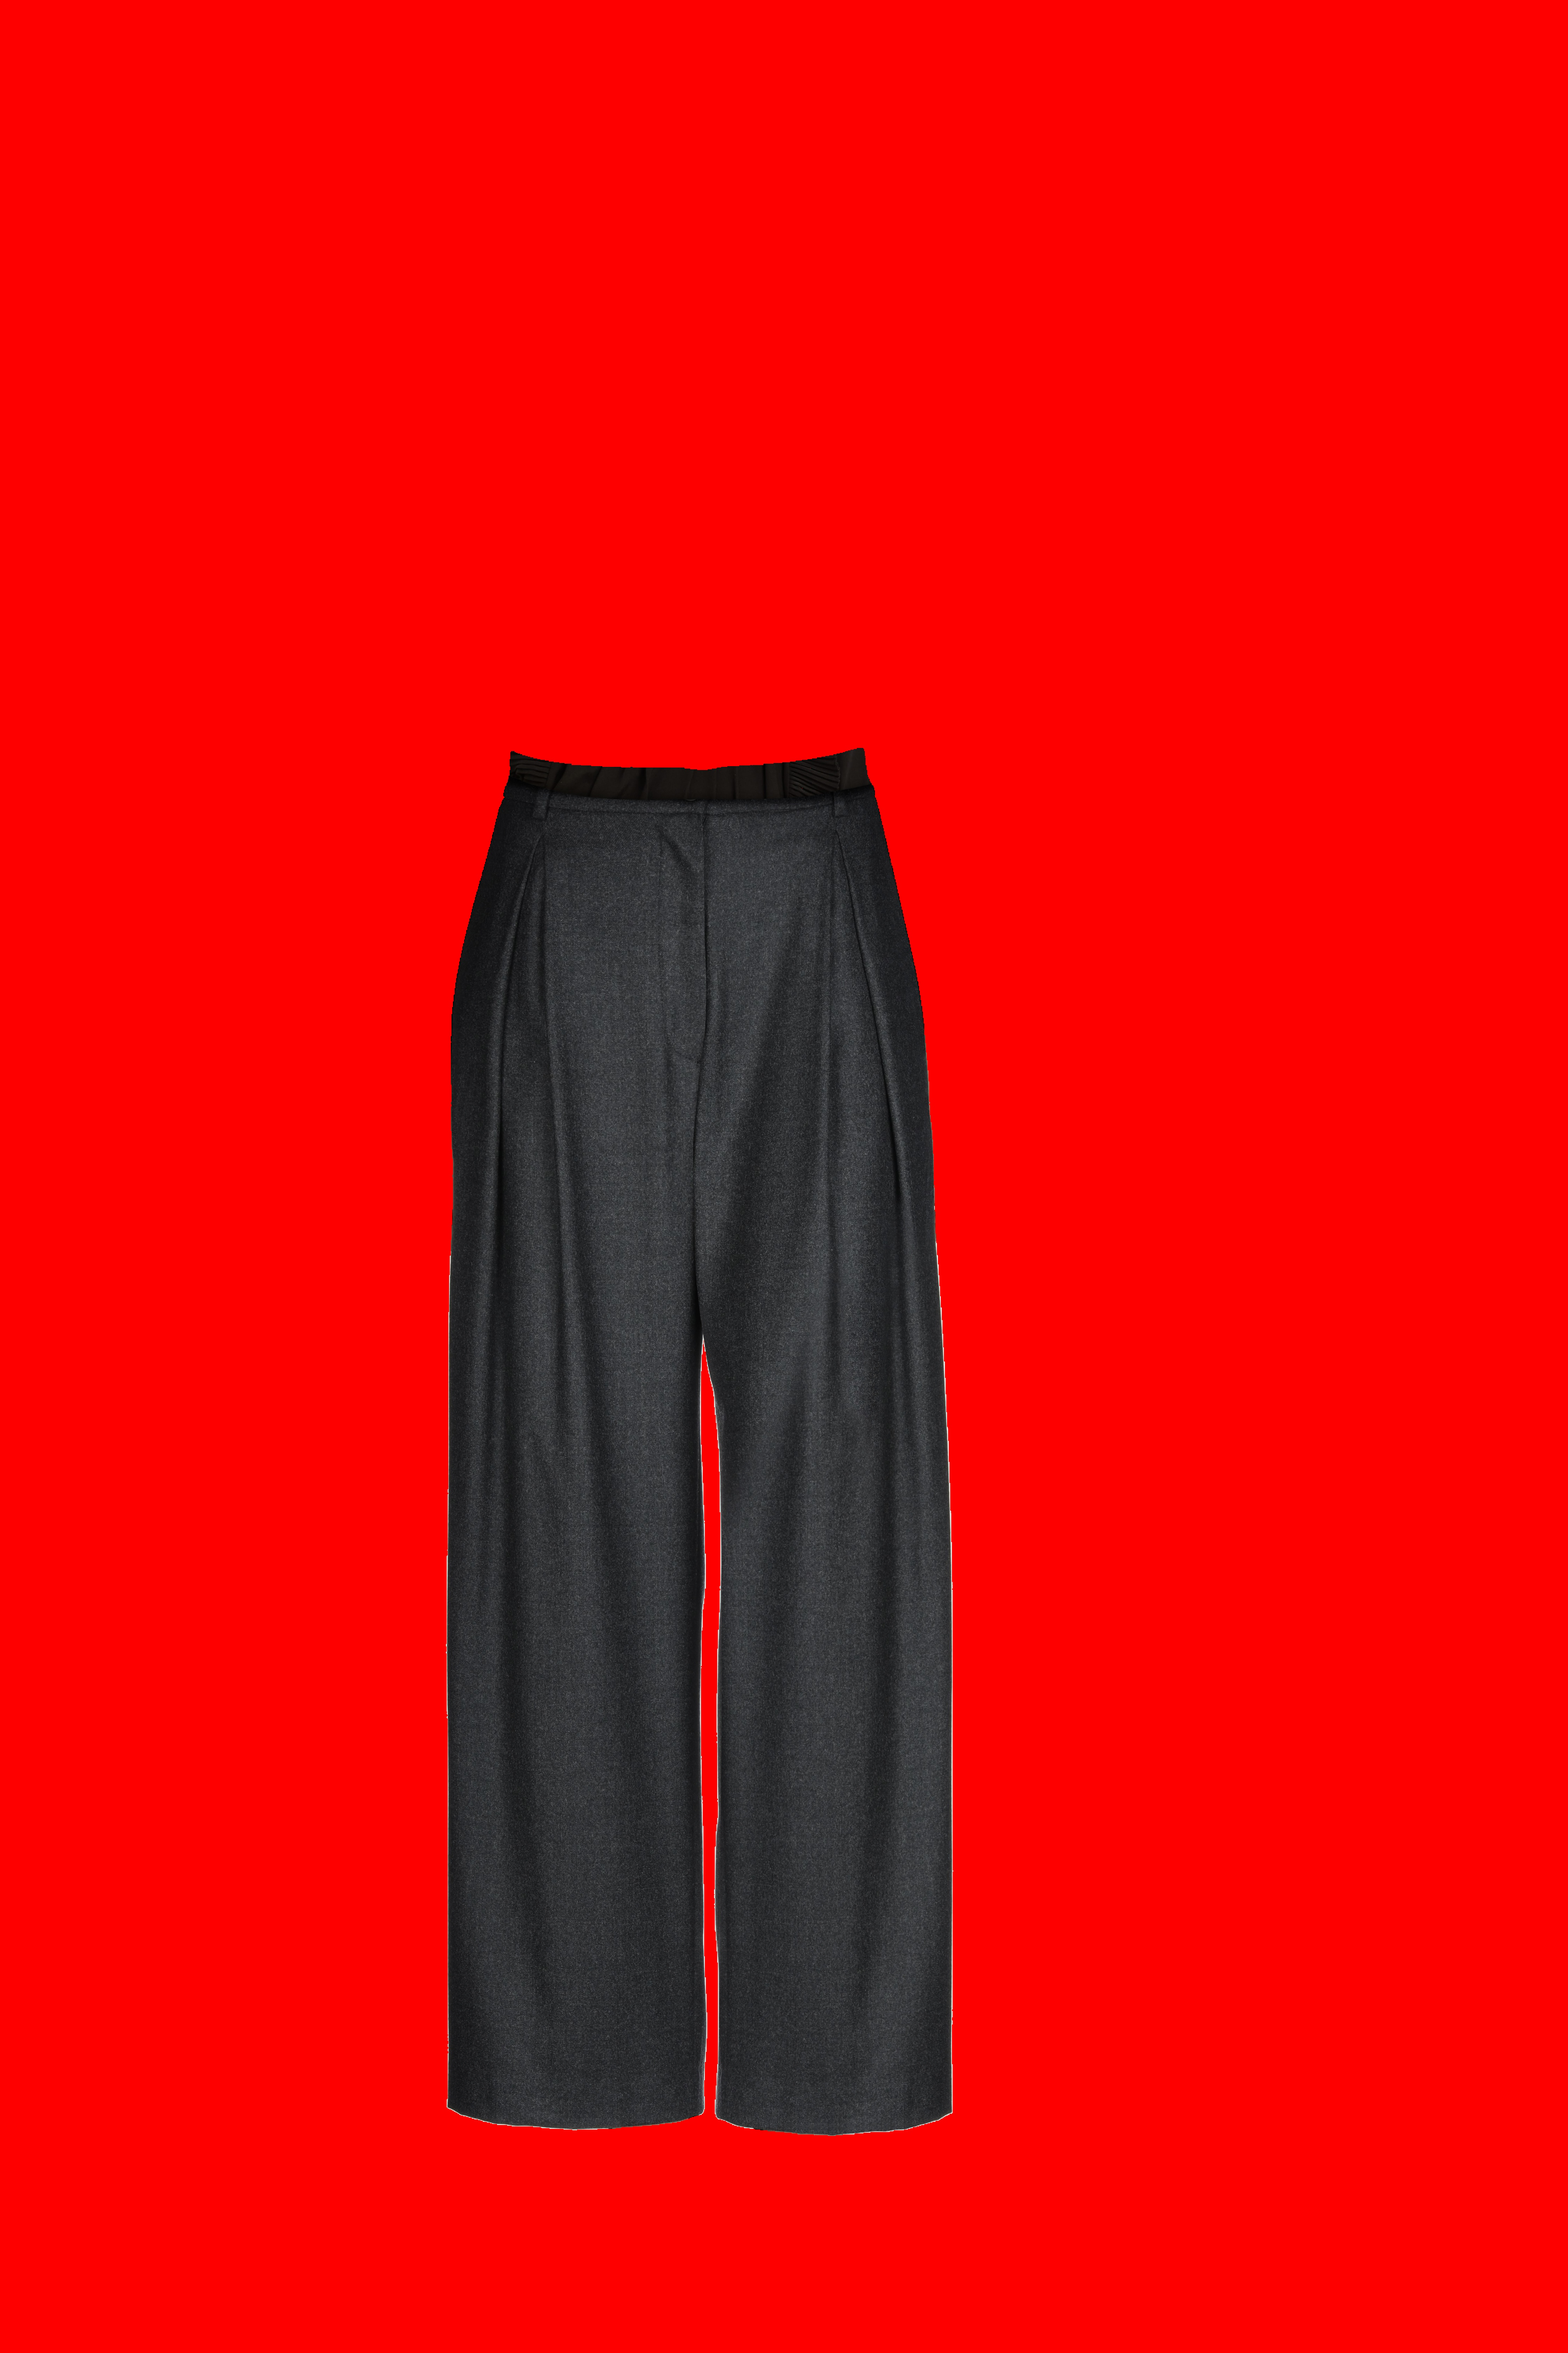
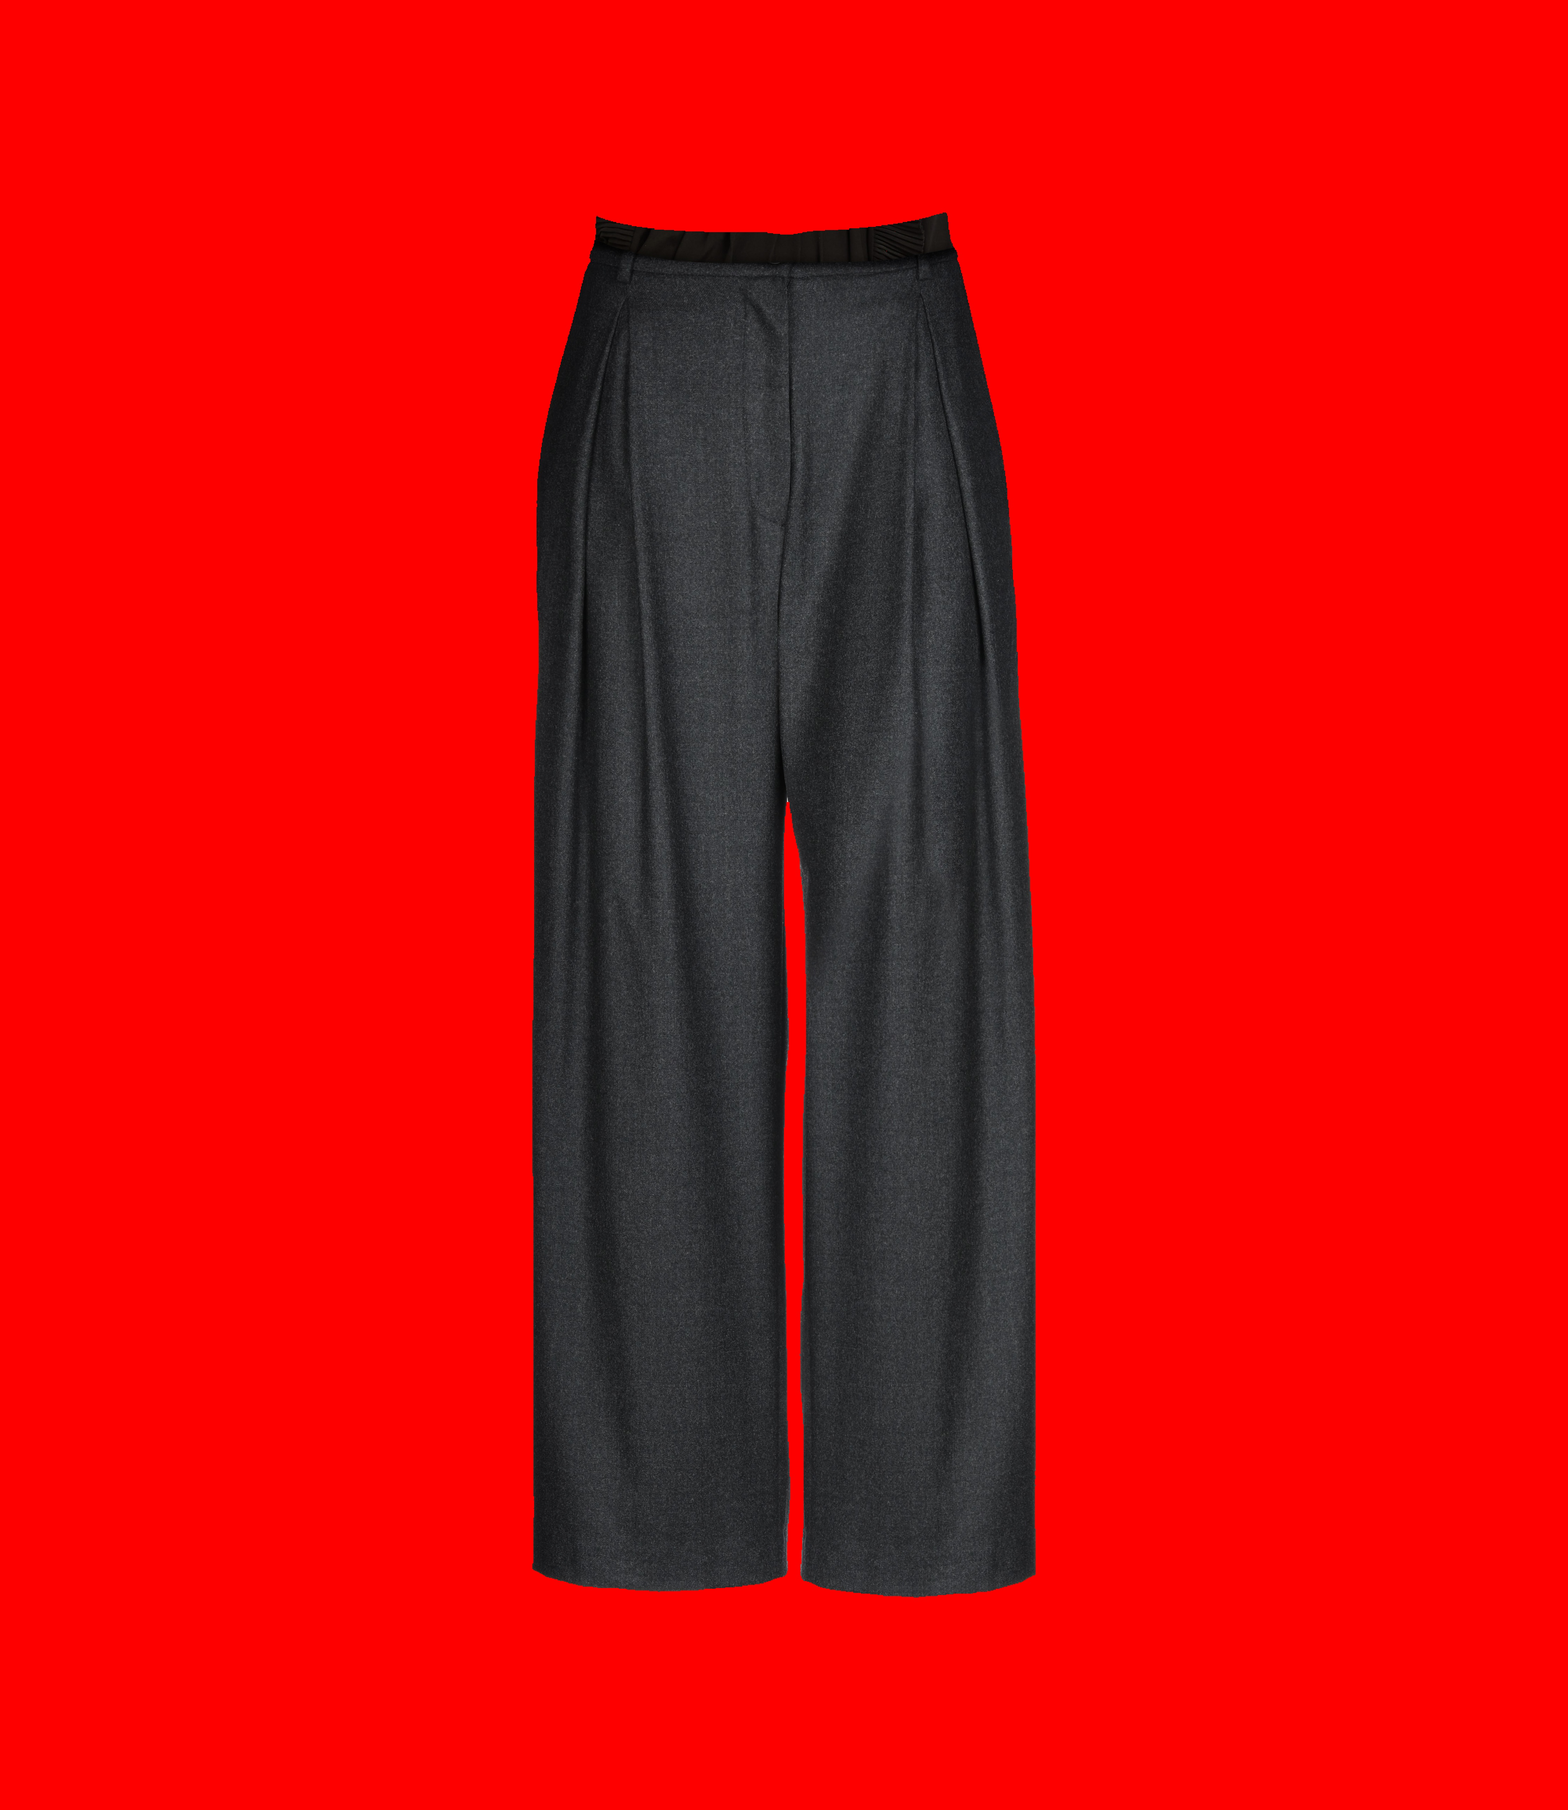
modify code

Changed region(s): [[0.2812, 0.1246, 0.6875, 0.9342], [0.375, 0.654, 0.4062, 0.7474]]

diff --git a/multi-threading-python/multithreadtask.py b/multi-threading-python/multithreadtask.py
@@ -9,22 +9,25 @@ class myThread(threading.Thread):
       self.exitFlag=False
 
 
-   def run(self):
+   def run(self,stop_point=None):
 
+        counter=0
+        while True:
+            if counter%5==0:
+                print("%s is running at %s --- %s" % (self.name,counter,time.time()))
 
-      print("Starting " + self.name)
+            if stop_point!= None:
+                if counter>=stop_point:
 
-      counter=0
-      delay=5
-      while counter<50:
-          if self.exitFlag:
-              break
+                    break
+            if self.exitFlag or counter>50:
 
-          print("%s is running at %s" % (self.name,counter))
-          time.sleep(delay)
-          counter+=delay
+                break
 
-      print("Exiting " + self.name)
+            time.sleep(1)
+            counter+=1
+        print("%s is Exiting at %s " % (self.name,time.time()))
+
 
    def stop(self):
      self.exitFlag=True
@@ -32,6 +35,7 @@ class myThread(threading.Thread):
 
 
 if __name__ == "__main__":
+
     thread1=myThread(1,"Thread 1")
     thread2=myThread(2,"Thread 2")
     thread3=myThread(3,"Thread 3")
@@ -44,10 +48,51 @@ if __name__ == "__main__":
     #After 20 second stop thread 1 start thread 2
     time.sleep(20)
     thread1.stop()
+    thread1.join()
     thread2.start()
 
     #Again after 18 second stop thread 3 and start thread 1
     time.sleep(18)
     thread3.stop()
+    thread3.join()
     thread1=myThread(1,"Thread 1")
     thread1.start()
+
+
+
+
+#output-----
+#i have added sec into output so that we can seen 5 sec distance.
+"""
+
+
+Thread 1 is running at 0 --- 1601974507.2539134
+Thread 3 is running at 0 --- 1601974507.2649164
+Thread 1 is running at 5 --- 1601974512.268181
+Thread 3 is running at 5 --- 1601974512.2701814
+Thread 1 is running at 10 --- 1601974517.2705617
+Thread 3 is running at 10 --- 1601974517.2725623
+Thread 1 is running at 15 --- 1601974522.2728307
+Thread 3 is running at 15 --- 1601974522.2748334
+Thread 1 is running at 20 --- 1601974527.2759948
+Thread 1 is Exiting at 1601974527.2779932
+Thread 3 is running at 20 --- 1601974527.2779932
+Thread 2 is running at 0 --- 1601974527.2789917
+Thread 3 is running at 25 --- 1601974532.2803695
+Thread 2 is running at 5 --- 1601974532.2823703
+Thread 3 is running at 30 --- 1601974537.2826405
+Thread 2 is running at 10 --- 1601974537.2846391
+Thread 3 is running at 35 --- 1601974542.2849076
+Thread 2 is running at 15 --- 1601974542.2869077
+Thread 3 is Exiting at 1601974545.2866678
+Thread 1 is running at 0 --- 1601974545.2875612
+Thread 2 is running at 20 --- 1601974547.2901773
+Thread 1 is running at 5 --- 1601974550.2899384
+Thread 2 is running at 25 --- 1601974552.2924466
+Thread 1 is running at 10 --- 1601974555.2922077
+Thread 2 is running at 30 --- 1601974557.2947085
+Thread 1 is running at 15 --- 1601974560.296477
+
+
+
+"""

diff --git a/create_image/create_image.py b/create_image/create_image.py
@@ -1,4 +1,5 @@
 import cv2
+import numpy as np
 
 # -----------------------read input image--------------
 img=cv2.imread("input.jpg")
@@ -6,14 +7,51 @@ img=cv2.imread("input.jpg")
 gray=cv2.cvtColor(img,cv2.COLOR_BGR2GRAY)
 
 #read mask image
-mask=cv2.imread("mask.png",0)
+mask=cv2.imread("mask.png")
+
 #resize mask
-resize_mask=cv2.resize(mask, (gray.shape[1],gray.shape[0]), interpolation = cv2.INTER_AREA)
+resize_mask=cv2.resize(mask,(gray.shape[1],gray.shape[0]), interpolation = cv2.INTER_AREA)
 
 
-img2_fg = cv2.bitwise_or(img,img,mask = resize_mask)
+# dst = cv2.addWeighted(img, 0.8,resize_mask, 0.05, 0)
+mask_gray=cv2.cvtColor(resize_mask,cv2.COLOR_BGR2GRAY)
+
+#erode
+kernel = np.ones((5,5),np.uint8)
+erode = cv2.erode(mask_gray,kernel,iterations = 2)
+
+img2_fg = cv2.bitwise_or(img,img,mask = erode)
 final_image=img2_fg.copy()
+
 ret, thresh = cv2.threshold(cv2.cvtColor(final_image, cv2.COLOR_BGR2GRAY), 0, 10, cv2.THRESH_BINARY)
 final_image[thresh == 0] = (0,0,255)
 
-cv2.imwrite("output.jpg",final_image)
+#blank red background image
+full_layer = np.full((5170, 4480,3), (0,0,255), np.uint8)
+cnts = cv2.findContours(cv2.cvtColor(resize_mask, cv2.COLOR_BGR2GRAY), cv2.RETR_TREE, cv2.CHAIN_APPROX_SIMPLE)
+
+cnts = cnts[0] if len(cnts) == 2 else cnts[1]
+cnts = sorted(cnts, key=cv2.contourArea, reverse=True)
+
+# Find bounding box and extract ROI
+for c in cnts:
+    x,y,w,h = cv2.boundingRect(c)
+    ROI = final_image[y:y+h, x:x+w]
+    break
+
+h, w,ly = ROI.shape
+# print(h,w,ly)
+
+hh, ww,ly = full_layer.shape
+# print(hh,ww,ly)
+
+yoff = round((hh-h)/2)
+xoff = round((ww-w)/2)
+# print(yoff,xoff)
+
+#overlay image at center
+result = full_layer.copy()
+result[yoff:yoff+h, xoff:xoff+w] = ROI
+
+#output
+cv2.imwrite("output.jpg",result)
